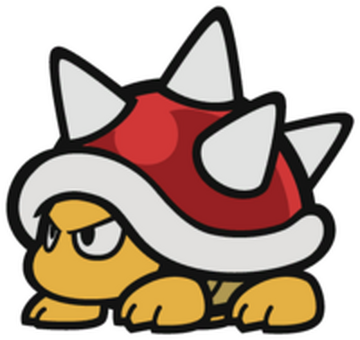
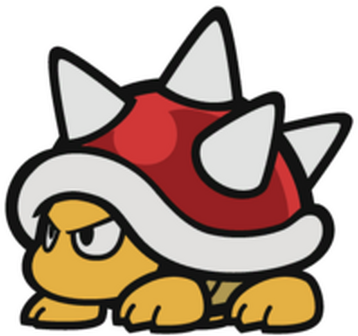
spiny added

Changed region(s): [[0.0, 0.0893, 0.9525, 1.0], [0.5223, 0.2679, 1.0, 0.5952], [0.4609, 0.4464, 0.4916, 0.4762]]

diff --git a/src/backend/block/enemy/Spiny.java b/src/backend/block/enemy/Spiny.java
@@ -1,0 +1,45 @@
+package backend.block.enemy;
+
+import backend.Manager;
+import backend.block.mario.SimpleMario;
+
+public class Spiny extends Enemy{
+    public Spiny(double x, double y) {
+        super(1.5, 1.3, x, y);
+    }
+
+    private static double getNormalSpeed(){return new SimpleMario().getSpeed() * 0.5;}
+
+    @Override
+    public void Update() {
+        super.Update();
+        if(vx < 0 && Push(Direction.Left) == 0)
+            vx *= -1;
+        if(vx > 0 && Push(Direction.Right) == 0)
+            vx *= -1;
+        if(Push(Direction.Down) > 0)
+            vx *= -1;
+        if(Manager.getInstance().CurrentGame().mario.Y == Y && Distance(Manager.getInstance().CurrentGame().mario) < 4) {
+            vx += (vx<0?-1:1)*getNormalSpeed()*0.1;
+            if(Side(Manager.getInstance().CurrentGame().mario, Direction.Left))
+                vx = -Math.abs(vx);
+            else
+                vx = Math.abs(vx);
+        }
+        else {
+            vx = (vx*9+(vx<0?-1:1)*getNormalSpeed())/10.0;
+        }
+    }
+
+    @Override
+    protected String getImageName() {
+        return "spiny.png";
+    }
+
+    @Override
+    protected boolean Pushed(Direction D) {
+        if((vx < 0 && D == Direction.Left) || (vx > 0 && D == Direction.Right))
+            vx *= -1;
+        return Neighbor(Manager.getInstance().CurrentGame().mario, D);
+    }
+}

diff --git a/src/backend/gamePlay/Section.java b/src/backend/gamePlay/Section.java
@@ -7,6 +7,7 @@ import backend.block.enemy.KillerPlant;
 import backend.block.Pipe;
 import backend.block.brick.*;
 import backend.block.enemy.Koopa;
+import backend.block.enemy.Spiny;
 import backend.block.item.Coin;
 
 import java.util.ArrayList;
@@ -59,7 +60,7 @@ public class Section {
         Add(new Brick(60, 1, 0, 0));
         Add(new Brick(40, 1, 10, 1));
         Add(new Goomba(20,2));
-        Add(new Goomba(30,2));
+        Add(new Spiny(30,2));
         Add(new Goomba(40,2));
         Add(new Koopa(25, 2));
         Add(new Koopa(35, 2));

diff --git a/src/backend/block/enemy/Koopa.java b/src/backend/block/enemy/Koopa.java
@@ -3,7 +3,6 @@ package backend.block.enemy;
 import backend.Manager;
 import backend.block.mario.SimpleMario;
 import backend.gamePlay.Game;
-import frontend.menu.game.GamePanel;
 
 import static java.lang.Math.max;
 
@@ -12,7 +11,7 @@ public class Koopa extends Enemy{
     transient double freeze = 0.0;
 
     public Koopa(double x, double y) {
-        super(1.5, 1, x, y);
+        super(1.8, 1, x, y);
         vx = getNormalSpeed();
     }
 
